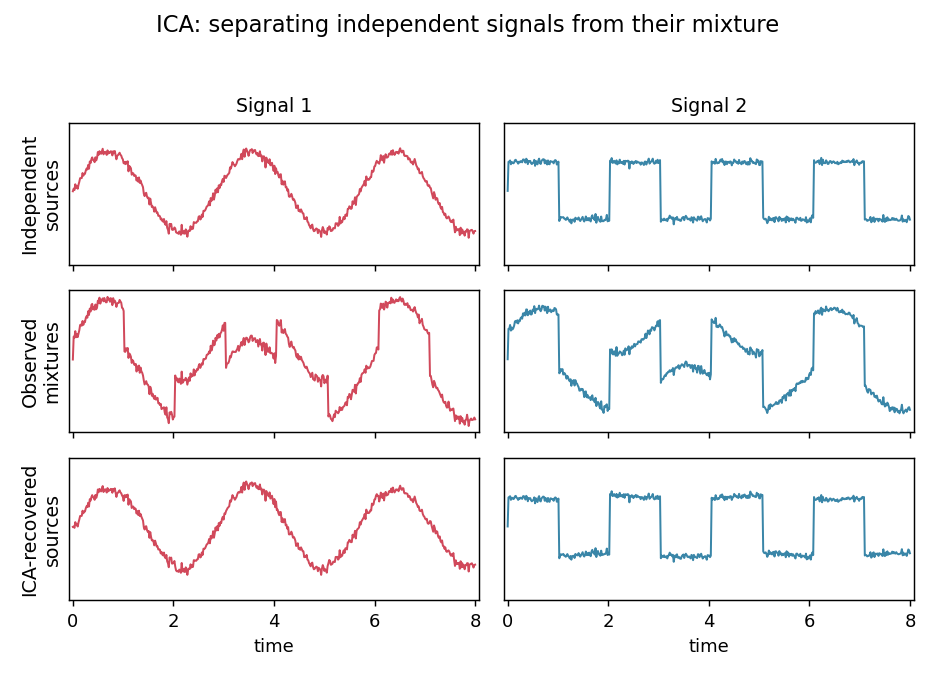
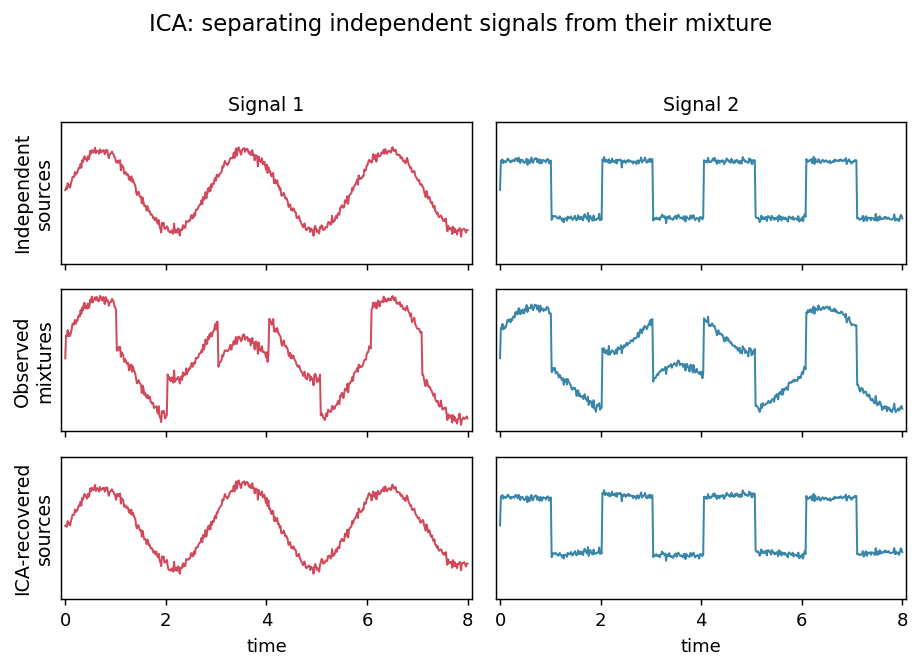
Crop whitespace around the PCA and ICA concept diagrams
Save the figures with bbox_inches='tight' so they no longer carry large empty margins above and below, tightening the spacing on the feature-transformation page.

diff --git a/docs/source/_figures/generate_concept_diagrams.py b/docs/source/_figures/generate_concept_diagrams.py
@@ -35,7 +35,8 @@ for k, (val, vec) in enumerate(zip(vals, vecs.T)):
 ax.set_aspect("equal"); ax.grid(alpha=0.2)
 ax.set_xlabel("feature 1"); ax.set_ylabel("feature 2")
 ax.set_title("PCA: components are the directions of maximum variance", fontsize=10.5)
-plt.tight_layout(); plt.savefig(os.path.join(HERE, "pca_concept.png"), dpi=130); plt.close()
+plt.savefig(os.path.join(HERE, "pca_concept.png"), dpi=130,
+            bbox_inches="tight", pad_inches=0.1); plt.close()
 
 # ---------------- ICA concept (source separation) ----------------
 rng = np.random.default_rng(0)
@@ -75,6 +76,7 @@ for c in range(2):
     axes[2][c].set_xlabel("time", fontsize=10)
 fig.suptitle("ICA: separating independent signals from their mixture", fontsize=12.5)
 fig.tight_layout(rect=[0, 0, 1, 0.95])
-plt.savefig(os.path.join(HERE, "ica_concept.png"), dpi=130); plt.close()
+plt.savefig(os.path.join(HERE, "ica_concept.png"), dpi=130,
+            bbox_inches="tight", pad_inches=0.1); plt.close()
 
 print("saved pca_concept.png and ica_concept.png")
